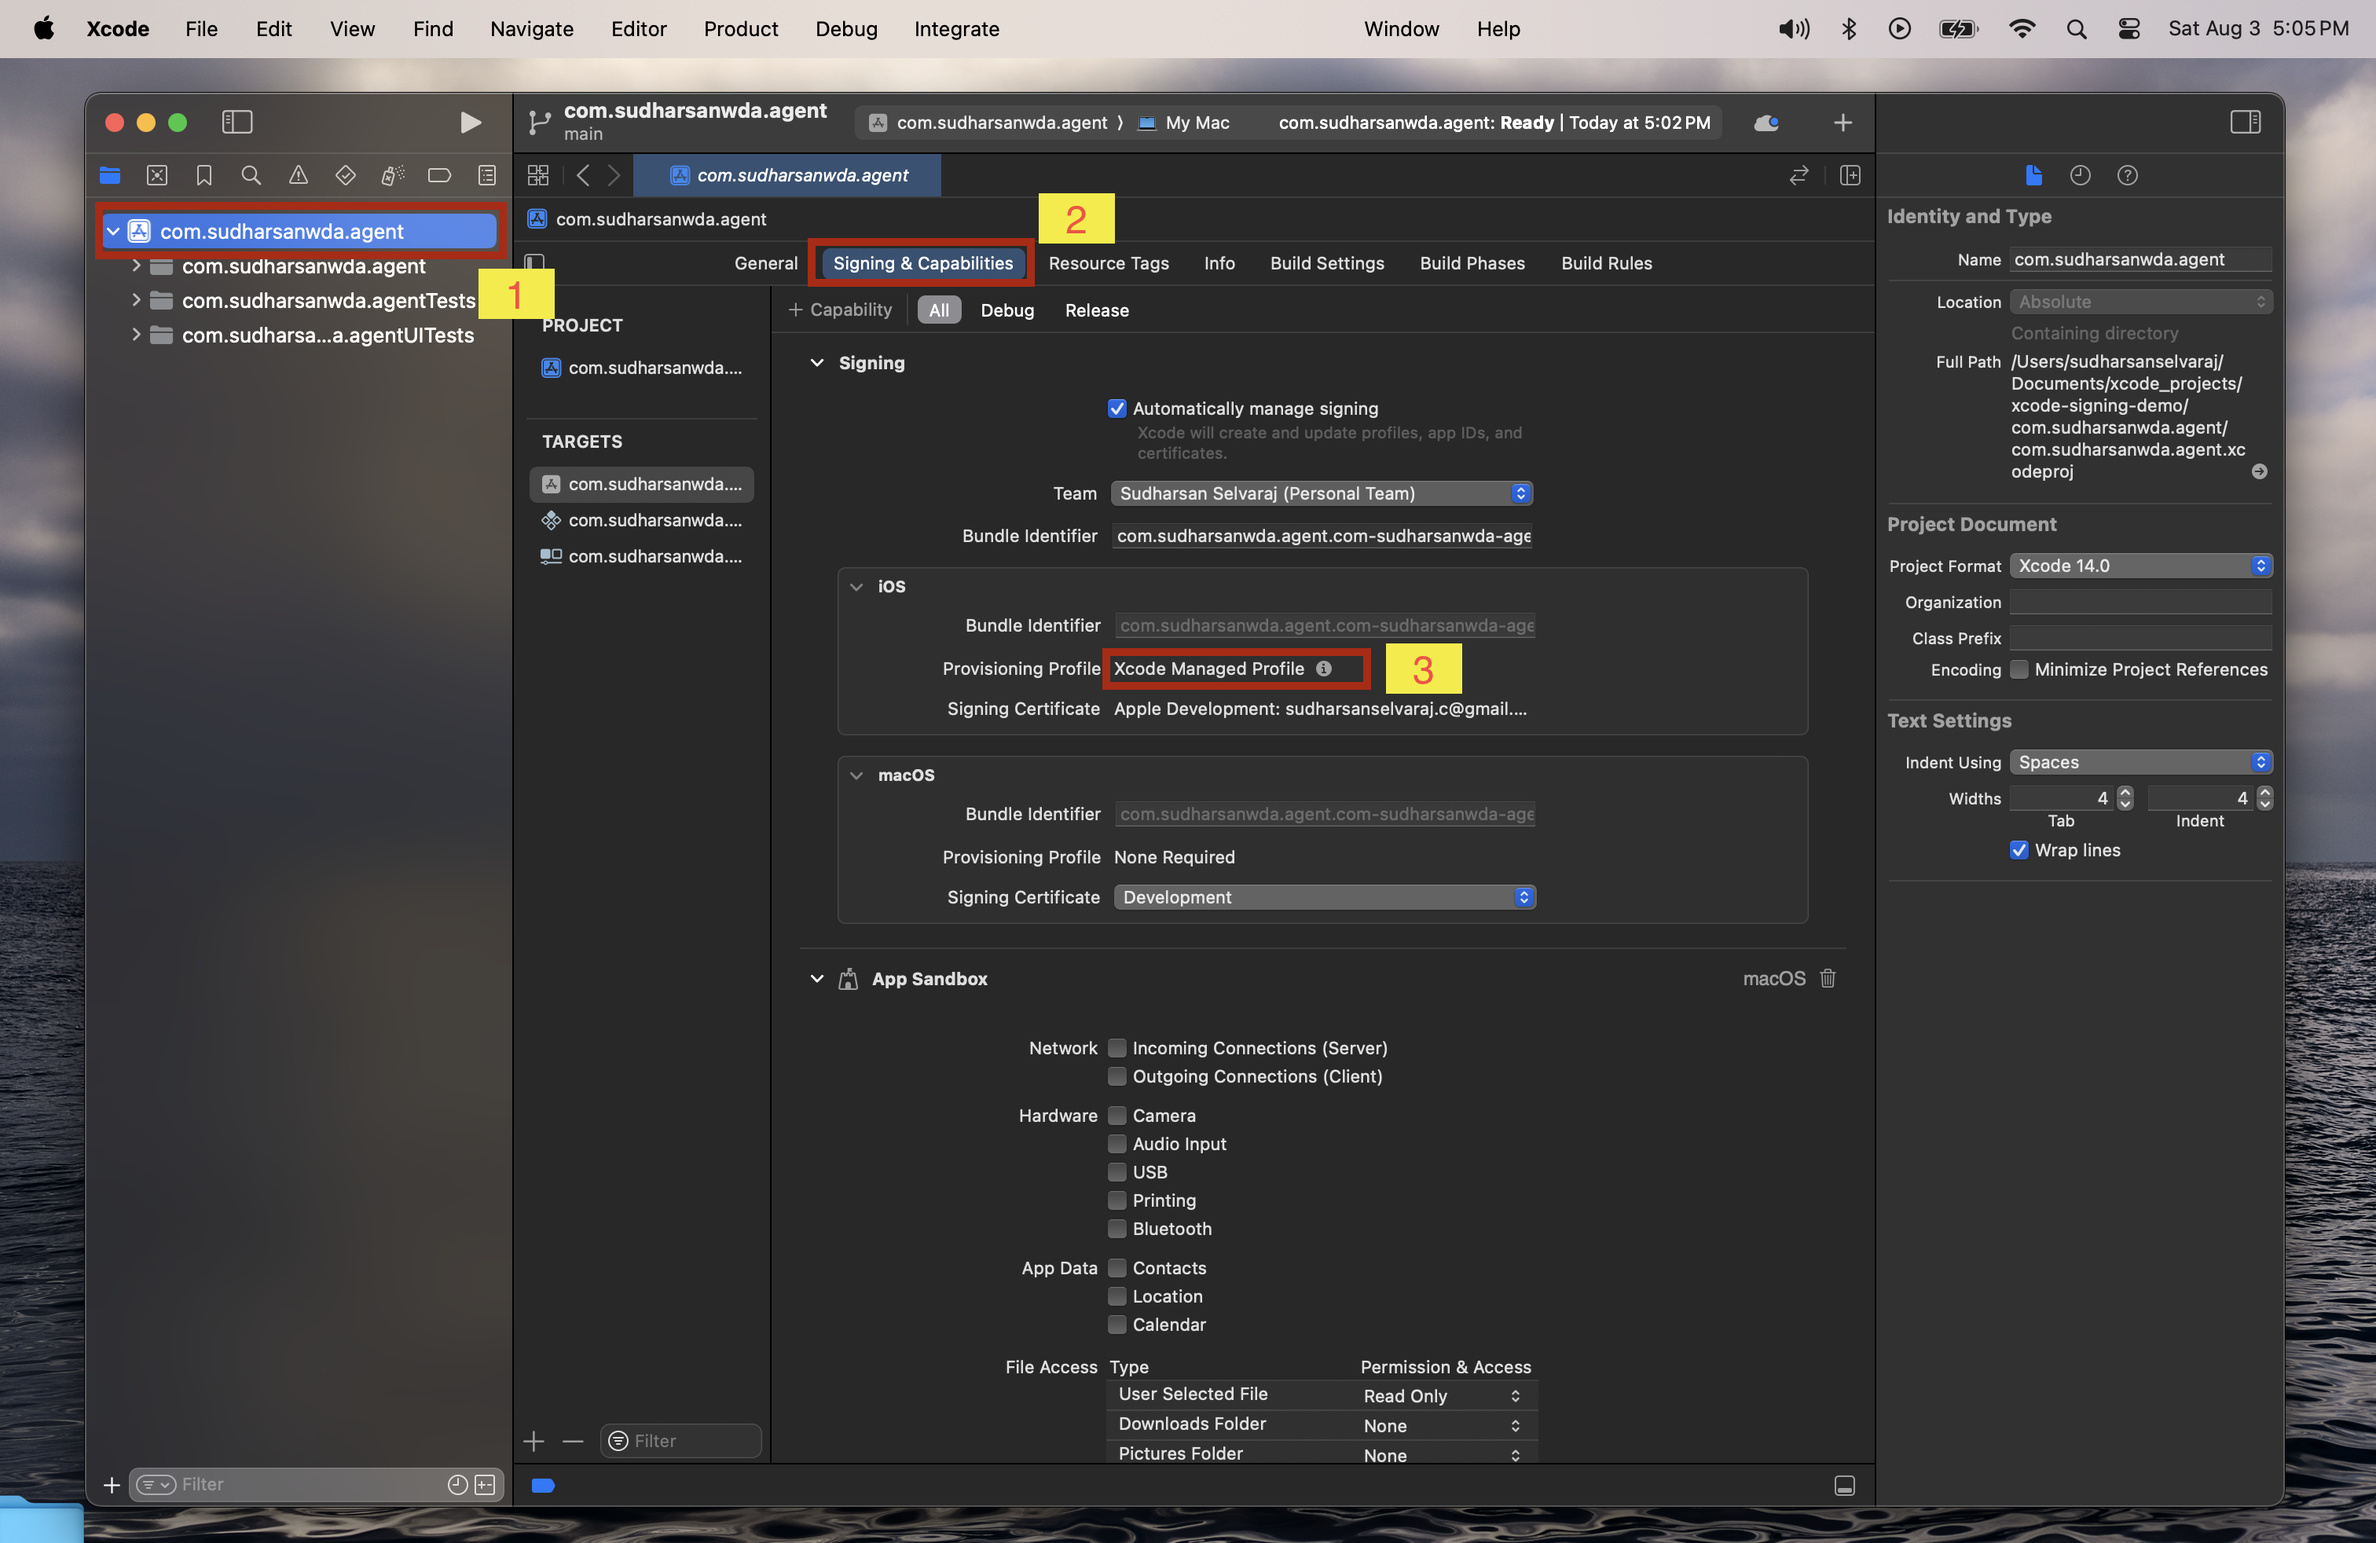
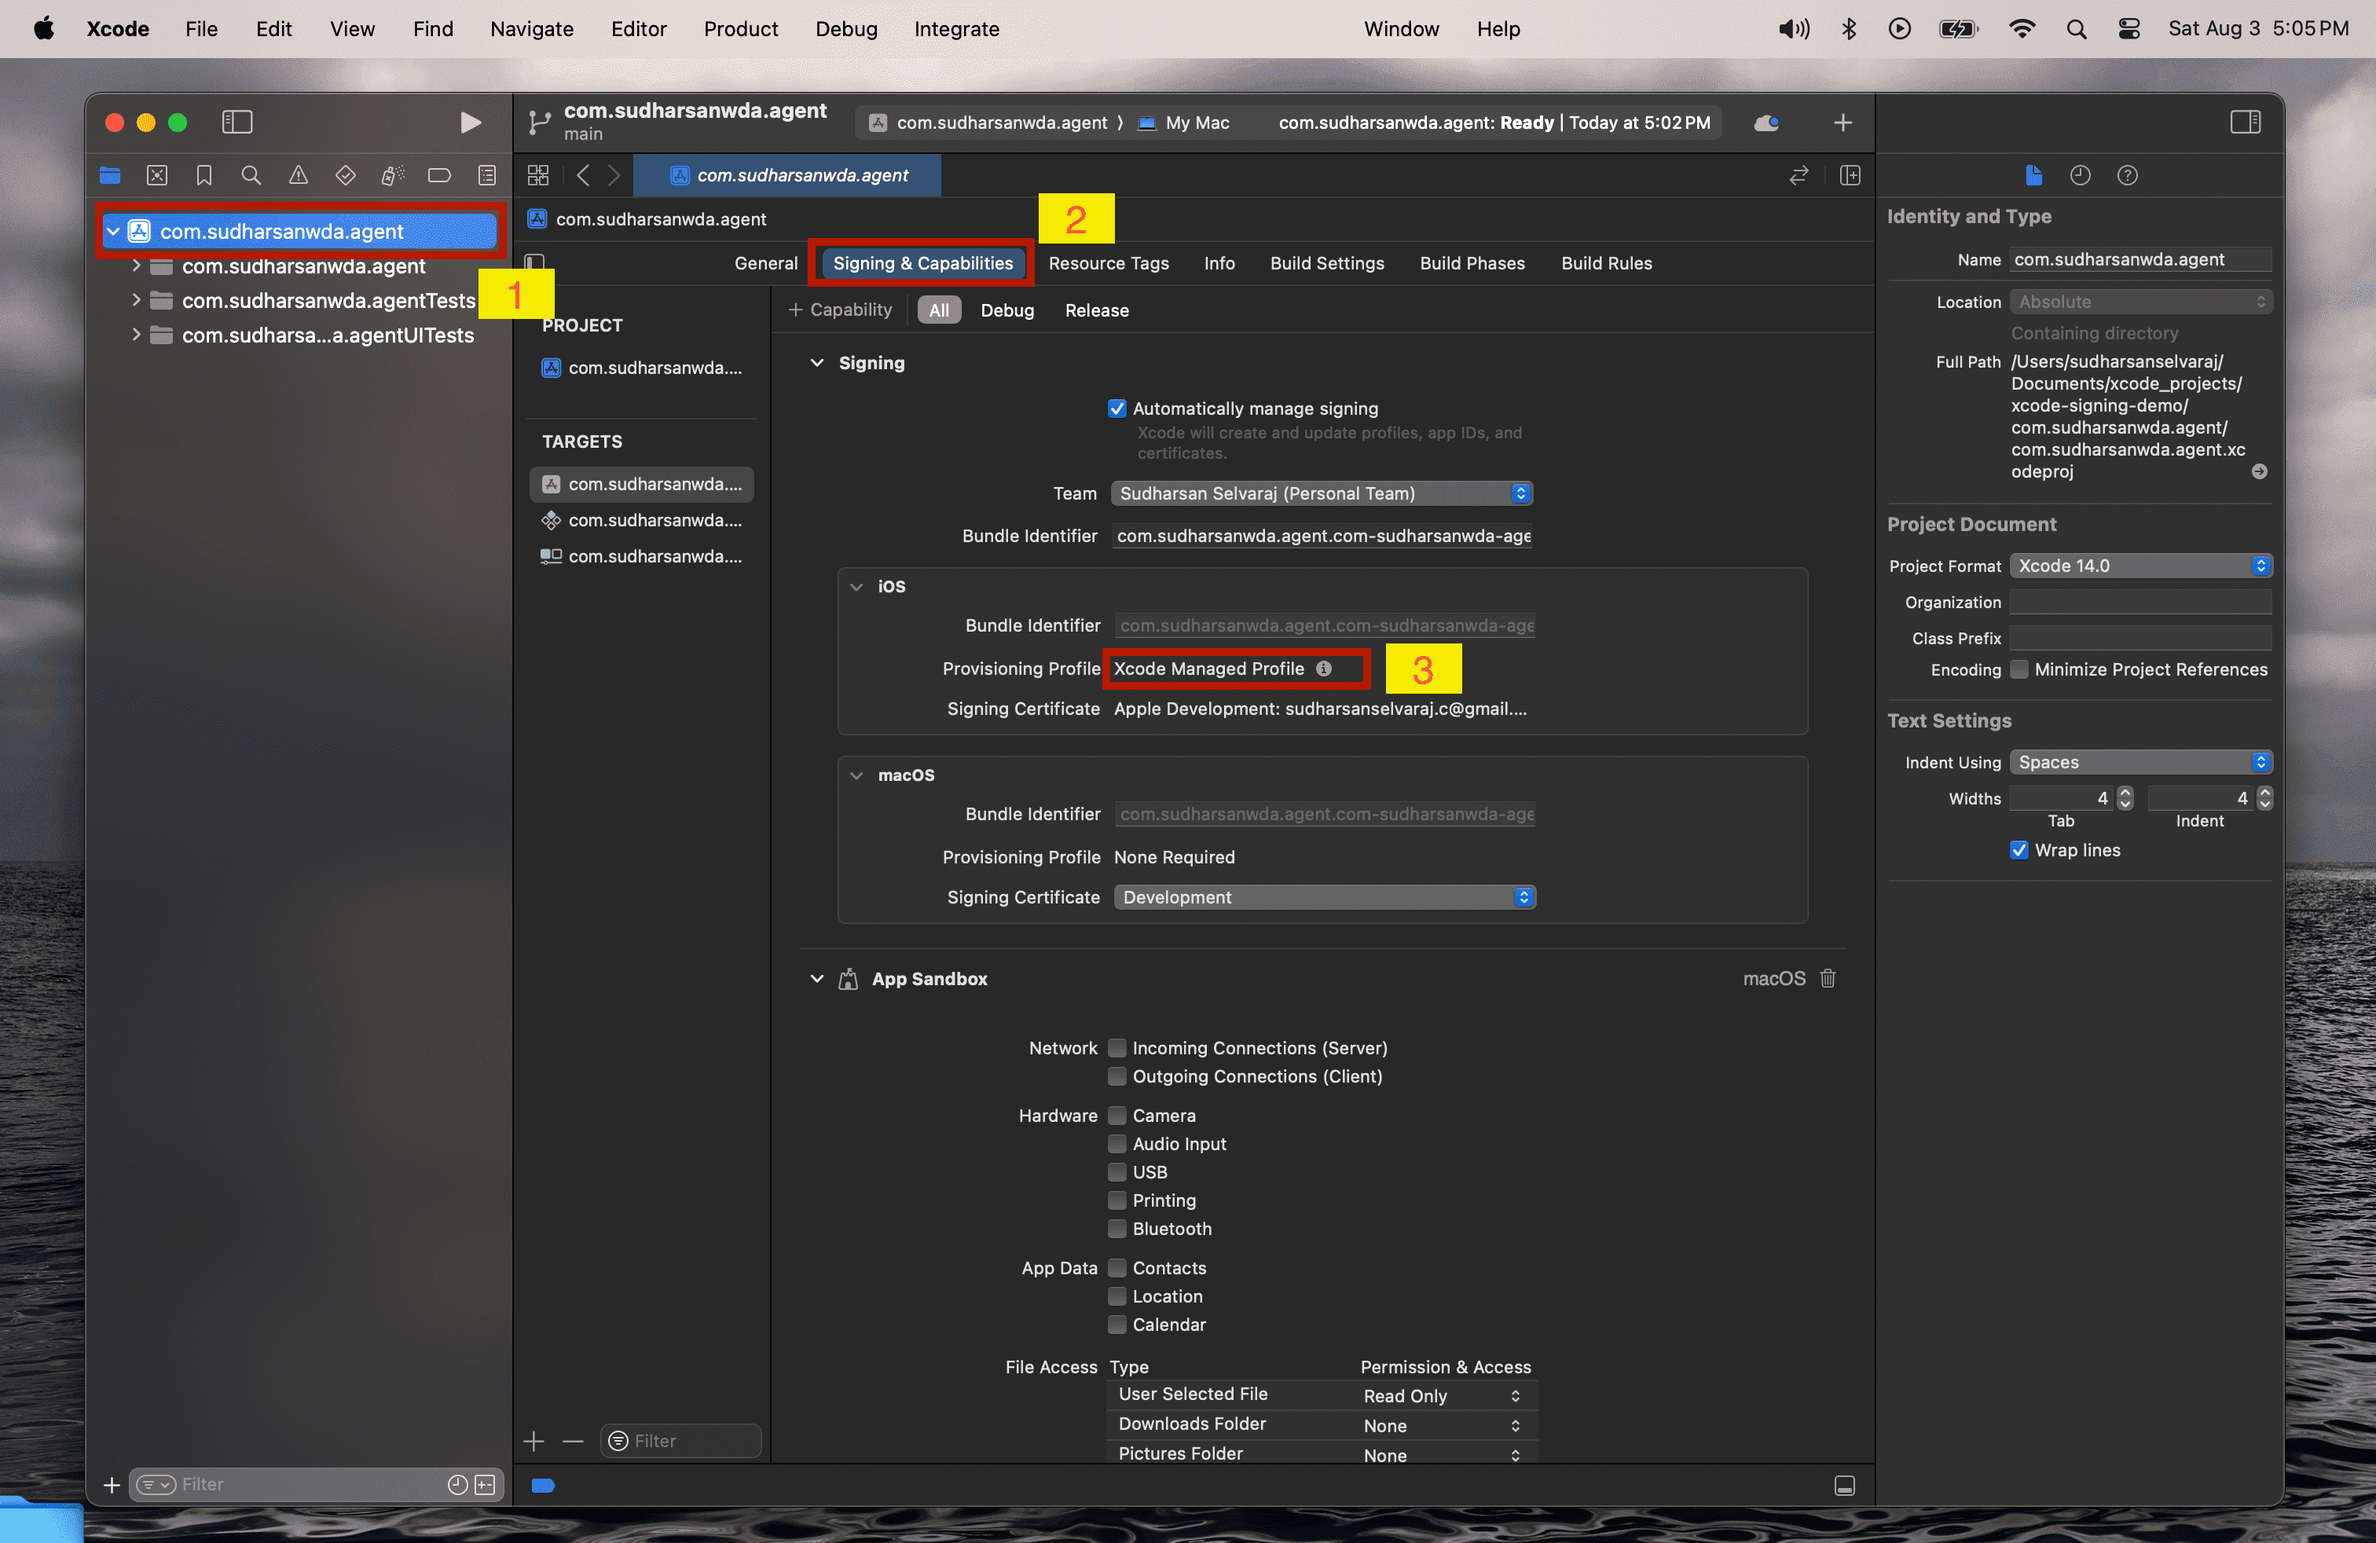
docs: compress image size for wda signing

diff --git a/documentation/docs/troubleshooting.md b/documentation/docs/troubleshooting.md
@@ -4,22 +4,39 @@ hide:
   - navigation
 ---
 
-### IOS
+## Device Farm
+
+### Facing errors related to prisma installation?
+
+1. run `appium plugin run device-farm setup`
+2. Check if the script executes without any error
+3. Incase of any error, open a new issue with the complete log from the script execution
+
+### How to delete all session details and videos?
+
+1. run `appium plugin run device-farm reset`
+2. The above command will delete all the existing data from database and resets the device farm to the original state
+
+## IOS
 
 1. How do I improve the iOS session startup for real device?
-    - Resign the WDA provided here: [WDA]()
-    - Use the following capabilities:
-   
-      ```json
-      {
-       "appium:usePreinstalledWDA": true,
-       "appium:updatedWDABundleId": wdaBundleID,
-       "appium:updatedWDABundleIdSuffix": "",
-      }
-      ```
-      
-    - Make sure the iPhone real device is unblocked and enabled developer mode.
+
+   - Resign the WDA provided here: [How to resign webdriver agent](/ios-signing)
+   - Use the following capabilities:
+
+     ```json
+     {
+      "appium:usePreinstalledWDA": true,
+      "appium:updatedWDABundleId": wdaBundleID,
+      "appium:updatedWDABundleIdSuffix": "",
+     }
+     ```
+
+   - Make sure the iPhone real device is unblocked and enabled developer mode.
+
 2. How do I improve the iOS session startup for Simulators?
-    - Provide server argument during the appium server start. `preBuildWDAPath` with the path to the WDA build for Simulators.
-### Notes
+   - Provide server argument during the appium server start. `preBuildWDAPath` with the path to the WDA build for Simulators.
+
+## Notes
+
 1. If there is no activity on a session for more then 100 seconds, device allocated to respective session would be unblocked and made available for new session requests.

diff --git a/documentation/docs/ios-signing.md b/documentation/docs/ios-signing.md
@@ -52,7 +52,7 @@ Enter a Project Name and a valid `Organization Identifier`. It can be any value,
 
 Once the project is created, click on the `Project Name` in the left pane and select the `Signing & Capabilities` tab. You should see `Xcode Managed Profile` listed under Provisioning Profile.
 
-![Ios resign](https://raw.githubusercontent.com/AppiumTestDistribution/appium-device-farm/main/documentation/docs/assets/images/wda-signing/step10-ios-resign-1.png)
+![xcode signing](https://raw.githubusercontent.com/AppiumTestDistribution/appium-device-farm/main/documentation/docs/assets/images/wda-signing/step9-post-project-creation.png)
 
 You can also check if the provisioning profile is created in the `~/Library/MobileDevice/Provisioning Profiles directory`. Once the provisioning profile is present, you have successfully created it and can now use it to sign the WDA file.
 
